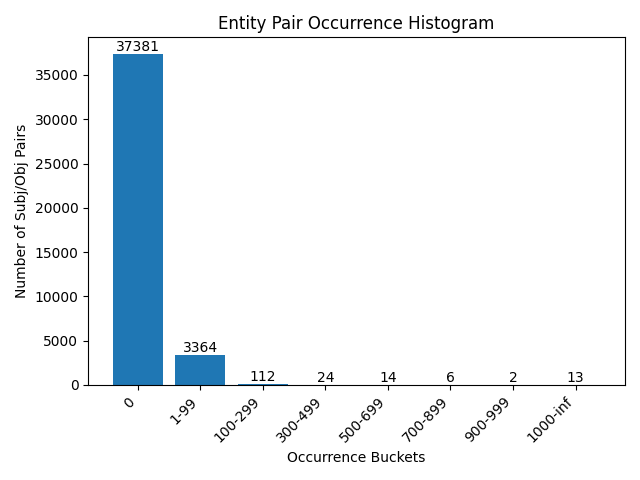
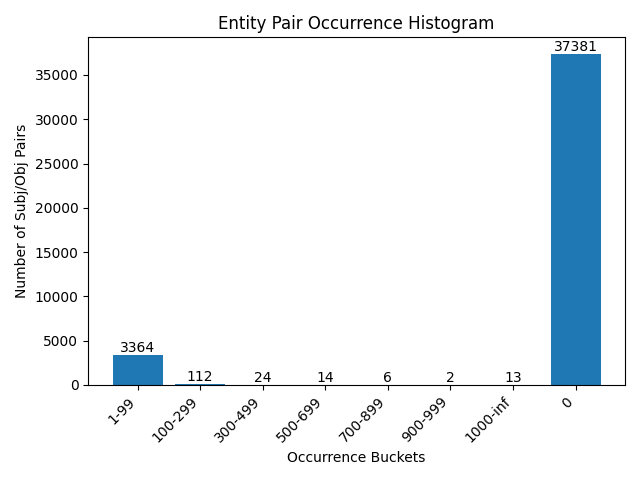
small refactoring

diff --git a/src/utility/utility.py b/src/utility/utility.py
@@ -155,20 +155,19 @@ def get_tokens_from_sentence(
 
 
 def create_fact_occurrence_accuracy_histogram(
-    elation_occurrence_info_dict: dict, output_path: str, output_diagram_name: str = "accuracy_statistics"
+    relation_occurrence_info_dict: dict, output_path: str, output_diagram_name: str = "accuracy_statistics"
 ) -> None:
     """
     Create fact occurrence accuracy statistics and plot a histogram.
-    :param elation_occurrence_info_dict:  Dictionary containing the entity relation information.
+    :param relation_occurrence_info_dict:  Dictionary containing the entity relation information.
     :param output_path:  Path to save the diagram.
     :param output_diagram_name:  Name of the output diagram.
     :return:
     """
 
-    x_labels = elation_occurrence_info_dict.keys()
-    accuracy_scores = [round(elation_occurrence_info_dict[x_label]["accuracy"], 2) for x_label in x_labels]
+    x_labels = relation_occurrence_info_dict.keys()
+    accuracy_scores = [round(relation_occurrence_info_dict[x_label]["accuracy"], 2) for x_label in x_labels]
     plt.bar(x_labels, accuracy_scores)
-
     for i, count in enumerate(accuracy_scores):
         plt.text(i, count, str(count), ha="center", va="bottom")
     plt.xticks(rotation=45, ha="right")
@@ -189,31 +188,37 @@ def create_fact_occurrence_histogram(
     :return:
     """
     relation_info_dict: dict = load_json_dict(path_to_rel_info_file)
-    occurrence_buckets = [0, 0, 0, 0, 0, 0, 0, 0]
+    occurrence_buckets = [
+            (1, 99),
+            (100, 299),
+            (300, 499),
+            (500, 699),
+            (700, 899),
+            (900, 999),
+            (1000, float("inf")),
+        ]
+    relation_occurrence_info_dict = {}
+    for occurrence in occurrence_buckets:
+        relation_occurrence_info_dict[f"{occurrence[0]}-{occurrence[1]}"] = {
+            "total_occurrence": 0,
+        }
+    relation_occurrence_info_dict["0"] = {"total_occurrence": 0}
 
     for relations in relation_info_dict.values():
         for fact in relations.values():
             occurrences = fact["occurrences"]
-            if occurrences == 0:
-                occurrence_buckets[0] += 1
-            elif 1 <= occurrences <= 99:
-                occurrence_buckets[1] += 1
-            elif 100 <= occurrences <= 299:
-                occurrence_buckets[2] += 1
-            elif 300 <= occurrences <= 499:
-                occurrence_buckets[3] += 1
-            elif 500 <= occurrences <= 699:
-                occurrence_buckets[4] += 1
-            elif 700 <= occurrences <= 899:
-                occurrence_buckets[5] += 1
-            elif 900 <= occurrences <= 999:
-                occurrence_buckets[6] += 1
-            else:
-                occurrence_buckets[7] += 1
+            for bucket in occurrence_buckets:
+                if occurrences == 0:
+                    relation_occurrence_info_dict["0"]["total_occurrence"] += 1
+                    break
+                if bucket[0] <= occurrences <= bucket[1]:
+                    relation_occurrence_info_dict[f"{bucket[0]}-{bucket[1]}"]["total_occurrence"] += 1
+                    break
 
-    x_labels = ["0", "1-99", "100-299", "300-499", "500-699", "700-899", "900-999", "1000-inf"]
-    plt.bar(x_labels, occurrence_buckets)
-    for i, count in enumerate(occurrence_buckets):
+    x_labels = relation_occurrence_info_dict.keys()
+    occurrences = [relation_occurrence_info_dict[x_label]["total_occurrence"] for x_label in x_labels]
+    plt.bar(x_labels, occurrences)
+    for i, count in enumerate(occurrences):
         plt.text(i, count, str(count), ha="center", va="bottom")
     plt.xticks(rotation=45, ha="right")
     plt.xlabel("Occurrence Buckets")
